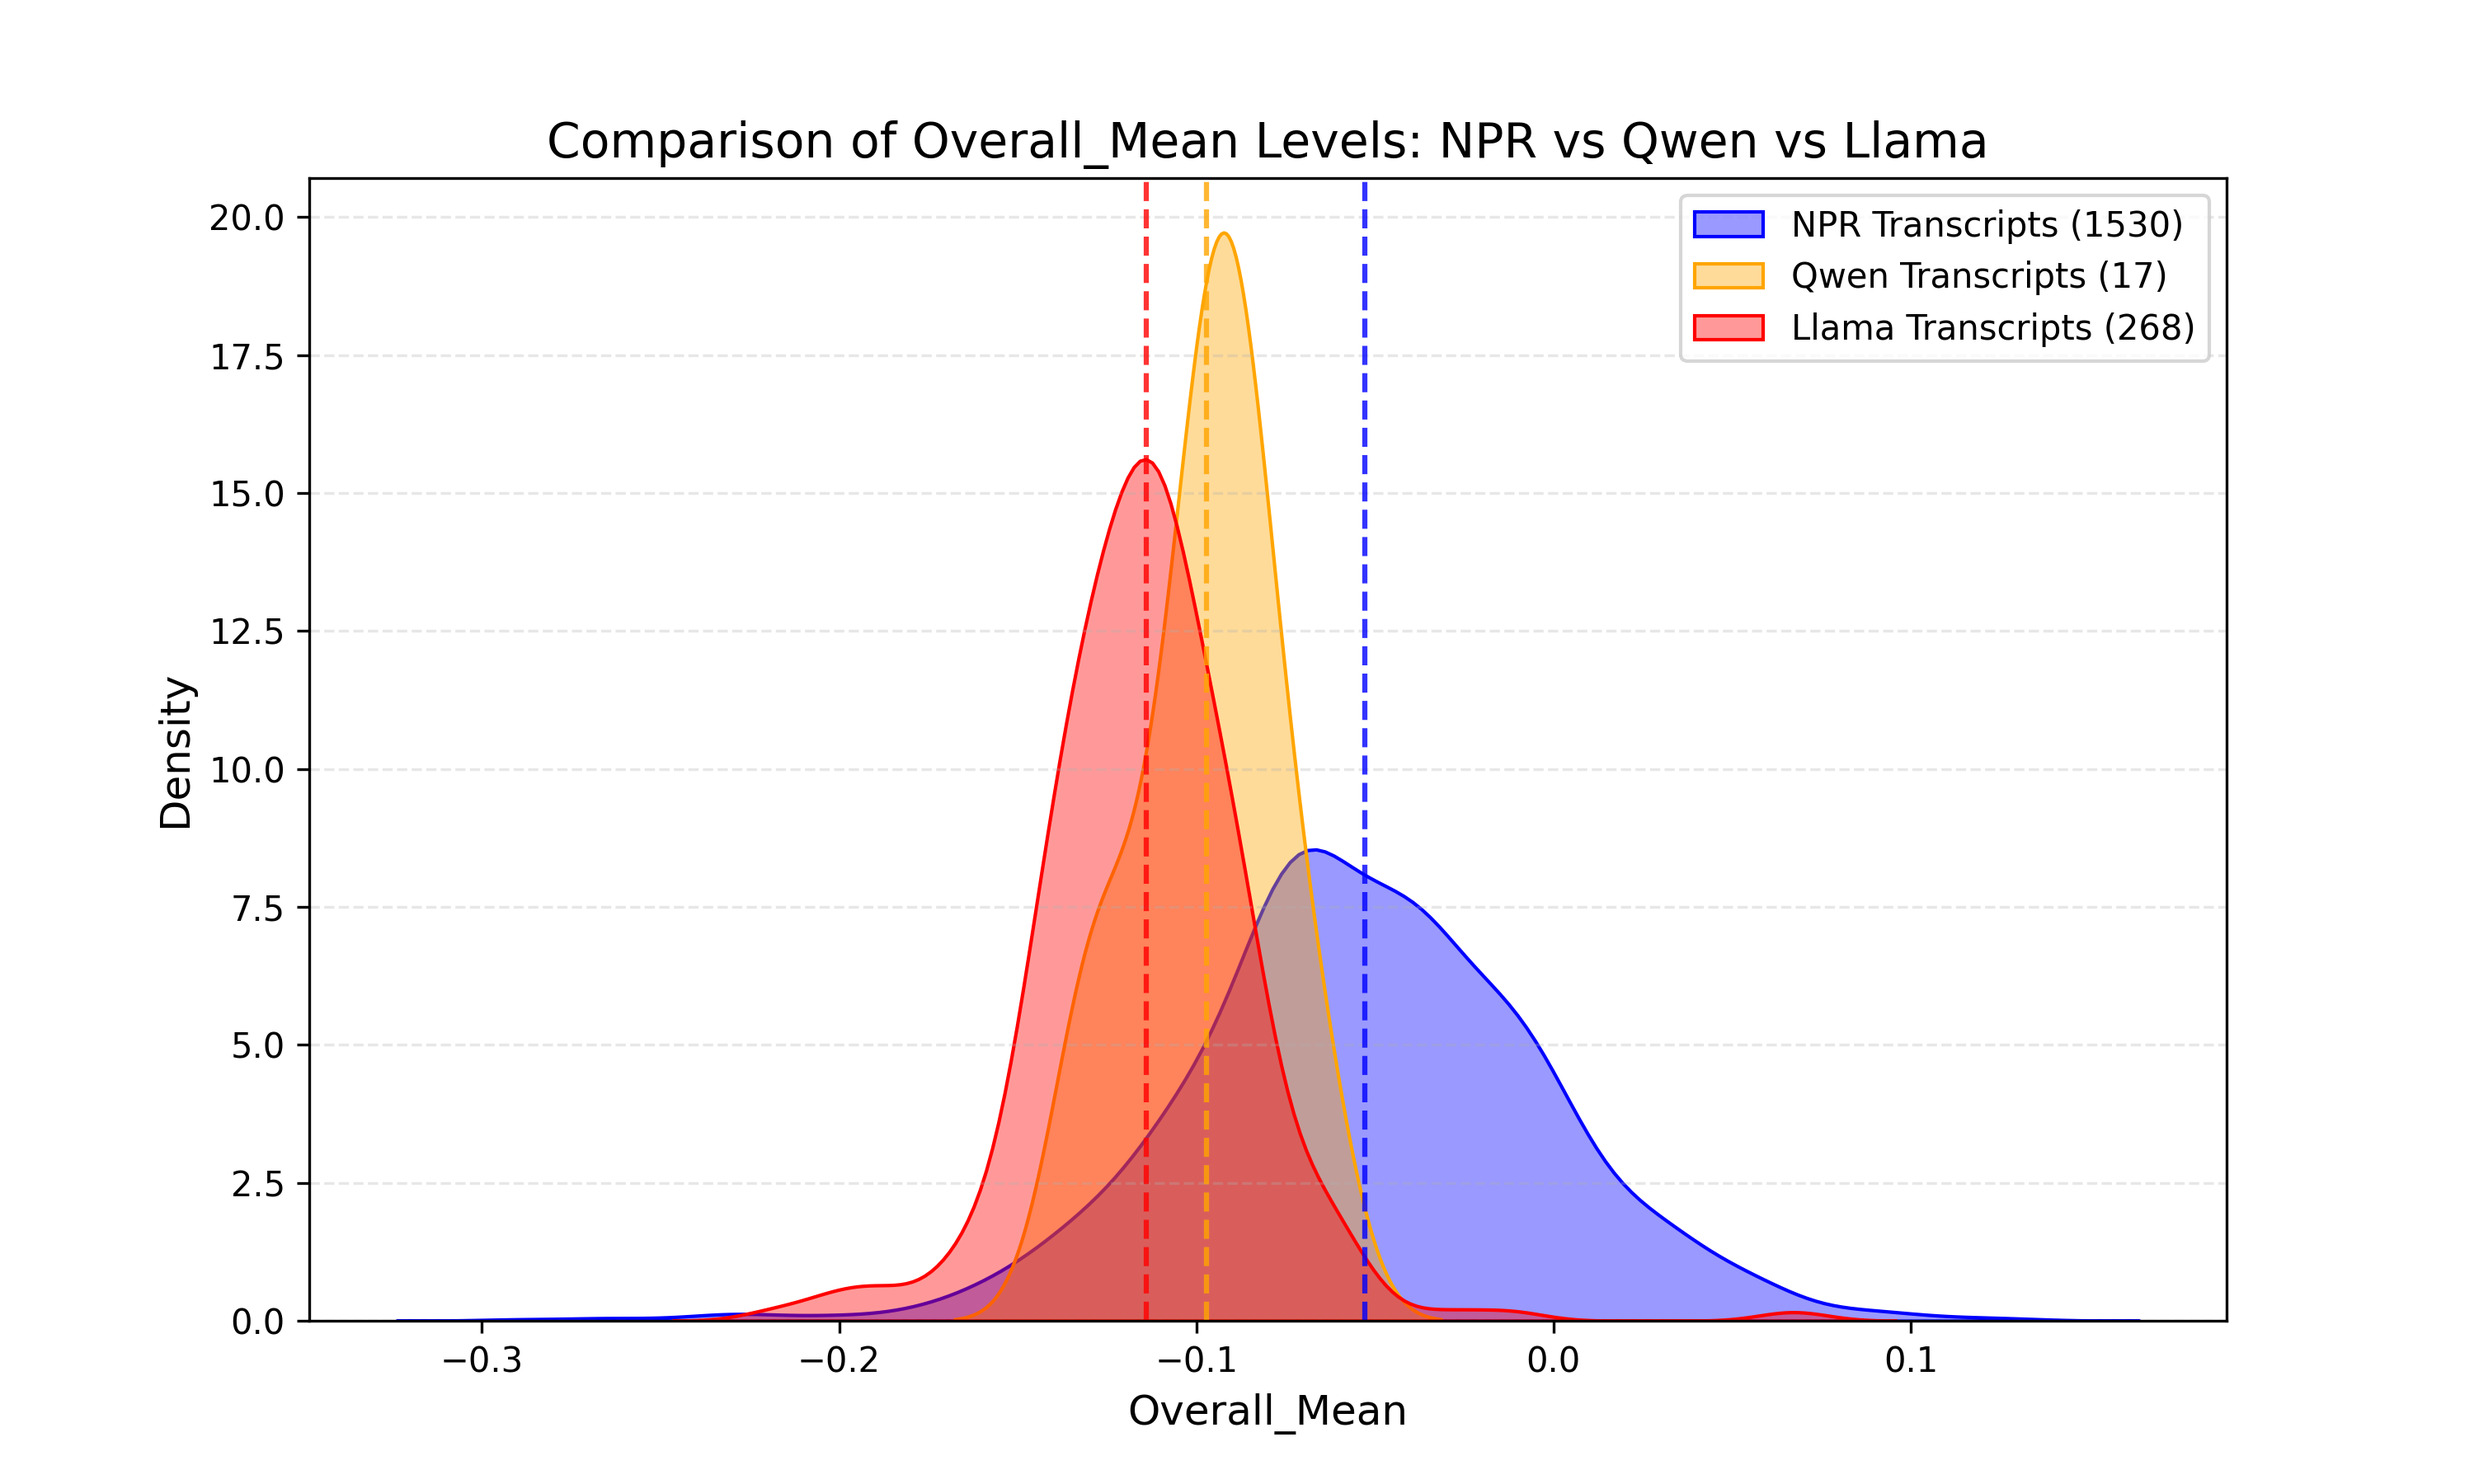
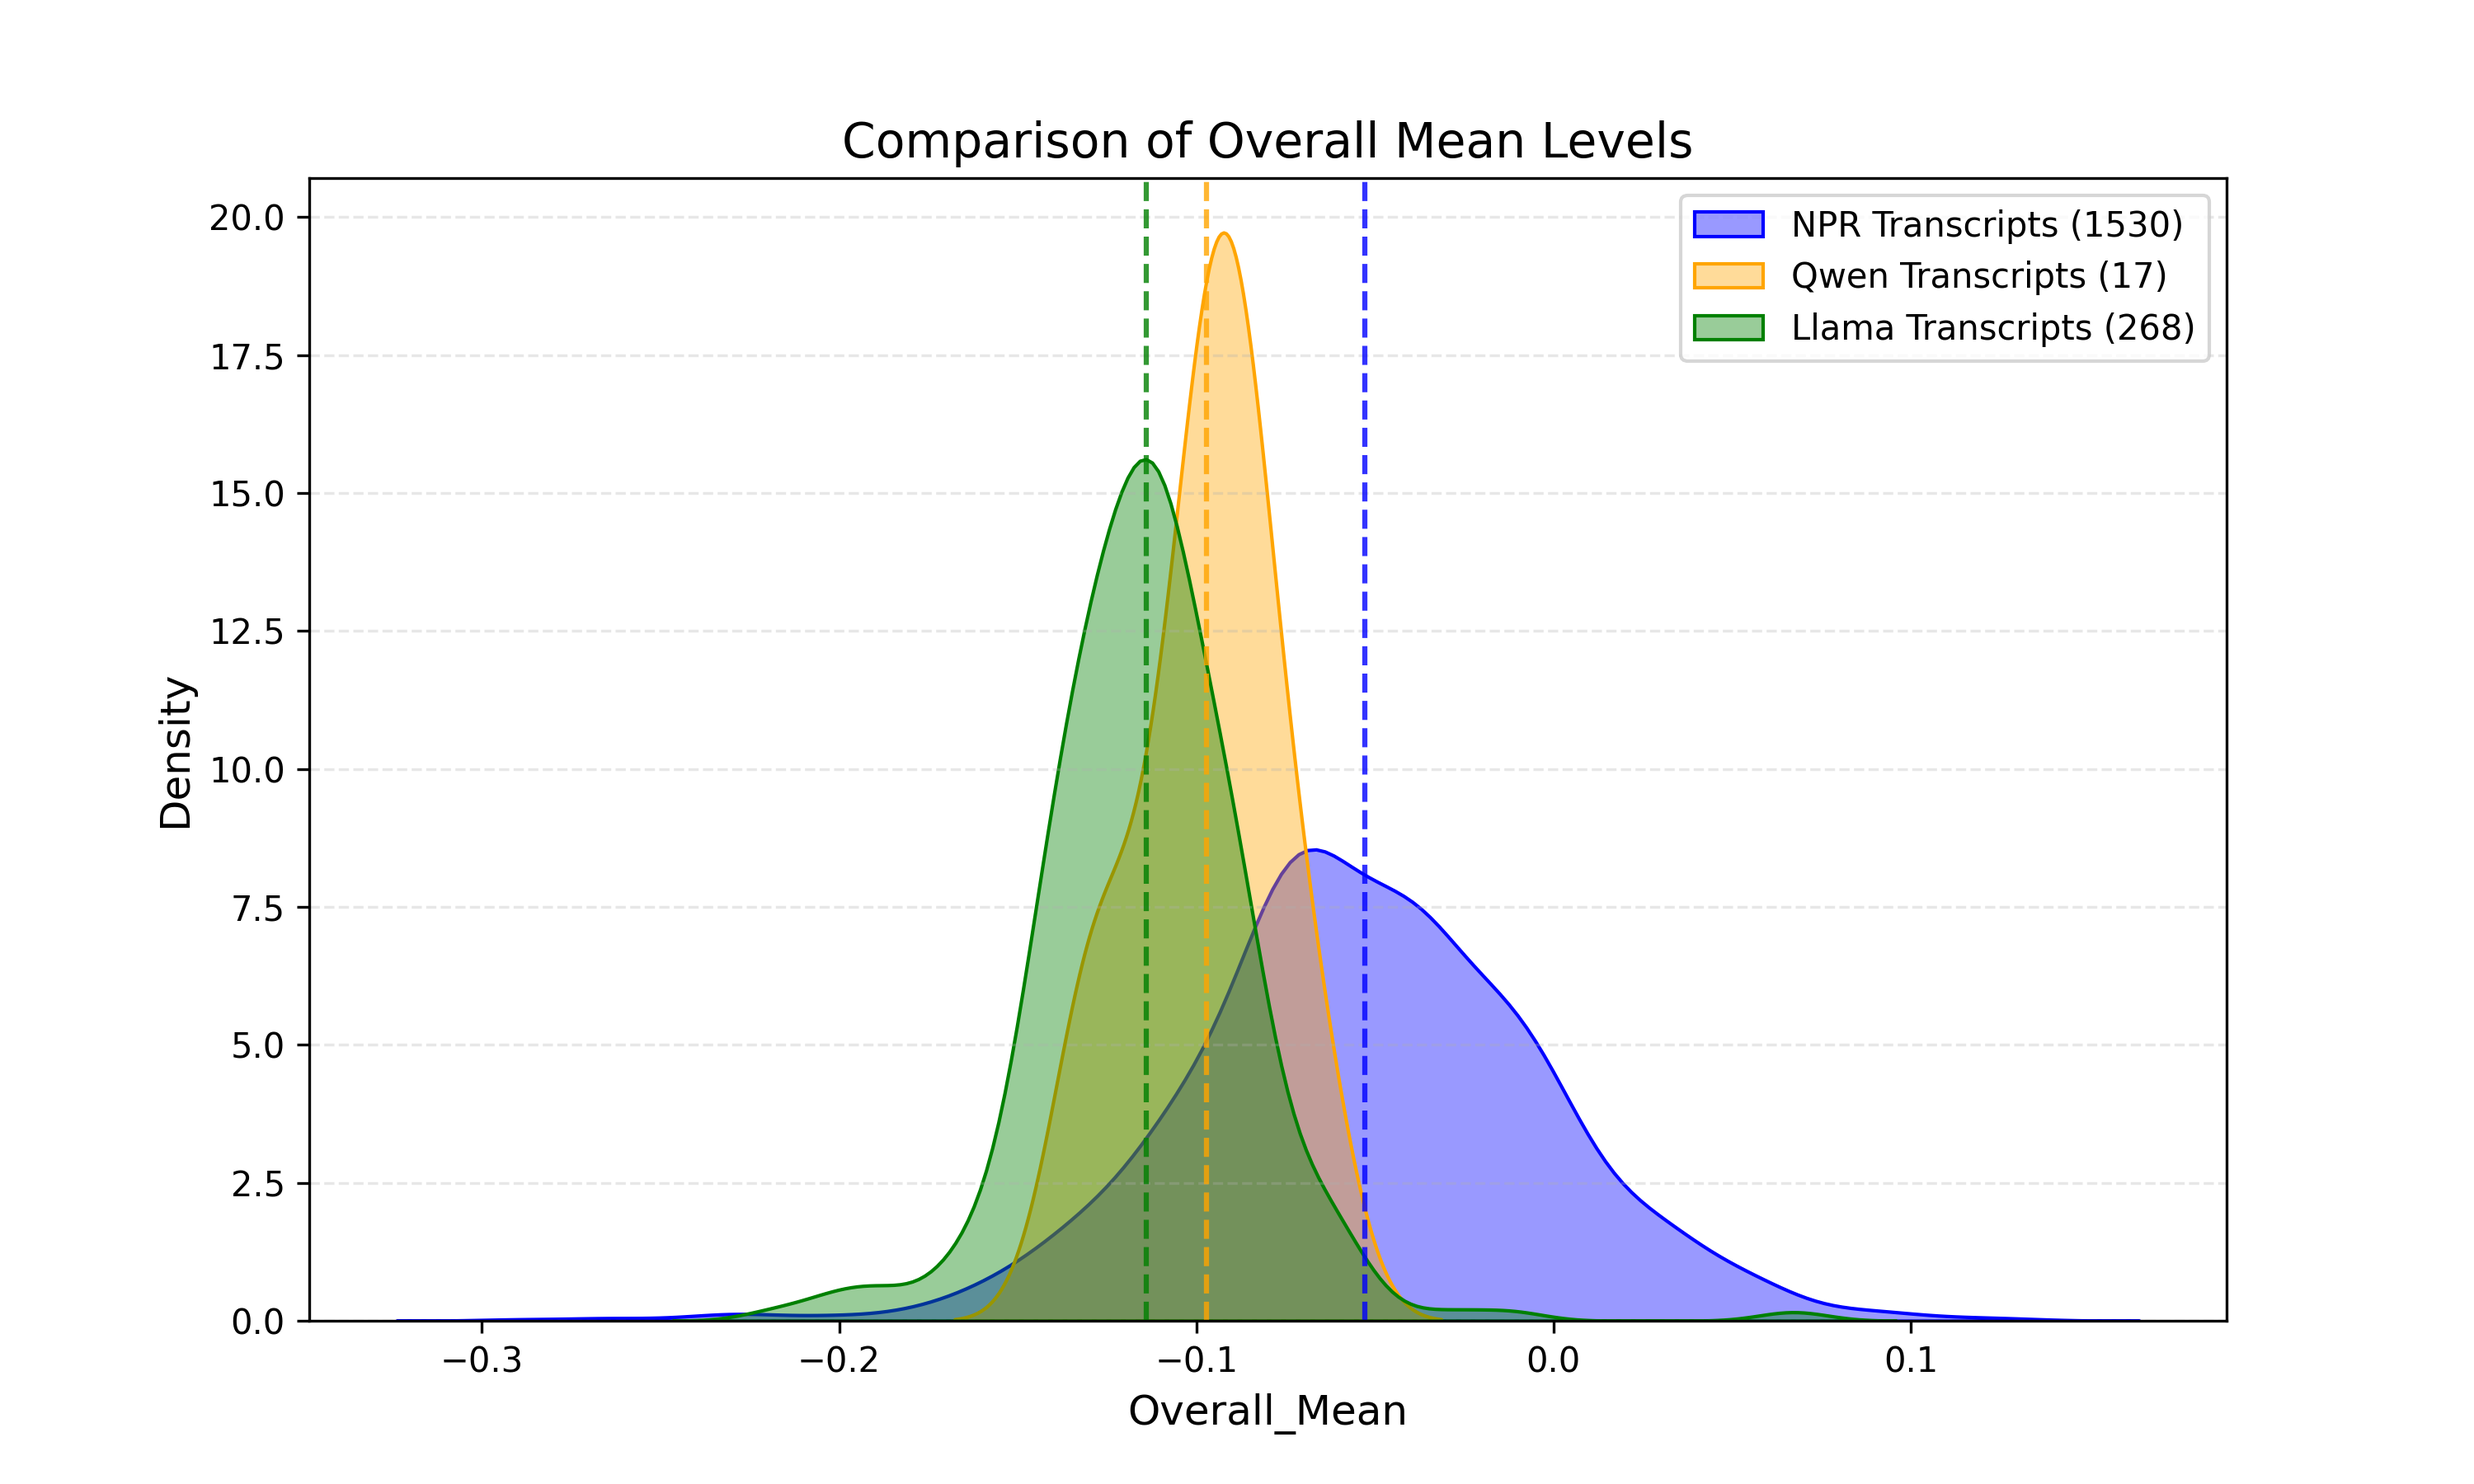
Refactored Compare.py to work with list of CSV's to expand beyond just NPR|Qwen|Llama

diff --git a/Compare.py b/Compare.py
@@ -2,93 +2,161 @@ import seaborn as sns
 import matplotlib.pyplot as plt
 import pandas as pd
 
-def kde_plot(npr_csv, qwen_csv, llama_csv, column, output_file):
-    # 1. Load your summary CSVs
-    npr_df = pd.read_csv(npr_csv)
-    qwen_df = pd.read_csv(qwen_csv)
-    llama_df = pd.read_csv(llama_csv)
+colors = [
+    "blue",
+    "orange",
+    "green",
+    "red",
+    "purple",
+    "brown",
+    "pink",
+    "gray",
+]
 
+labels = ['NPR Transcripts', 'Qwen Transcripts', 'Llama Transcripts']
+
+def kde_plot(csv_paths, labels, colors, column, title, output_file):
+    """
+    csv_paths: list of CSV file paths
+    labels:    list of label strings (same length as csv_paths)
+    colors:    list of colors (same length as csv_paths)
+    column:    column name to plot
+    title:     plot title
+    output_file: filename (inside Plots/)
+    """
     plt.figure(figsize=(10, 6))
 
-    # 2. Plot both distributions
-    sns.kdeplot(data=npr_df[column], fill=True, label='NPR Transcripts (' + str(len(npr_df)) + ')', color='blue', alpha=0.4)
-    sns.kdeplot(data=qwen_df[column], fill=True, label='Qwen Transcripts (' + str(len(qwen_df)) + ')', color='orange', alpha=0.4)
-    sns.kdeplot(data=llama_df[column], fill=True, label='Llama Transcripts (' + str(len(llama_df)) + ')', color='red', alpha=0.4)
+    for path, label, color in zip(csv_paths, labels, colors):
+        df = pd.read_csv(path)
+        sns.kdeplot(
+            data=df[column],
+            fill=True,
+            label=f"{label} ({len(df)})",
+            color=color,
+            alpha=0.4
+        )
+        plt.axvline(
+            df[column].mean(),
+            color=color,
+            linestyle='--',
+            linewidth=1.5,
+            alpha=0.8
+        )
 
-    # 3. Add Vertical Mean Markers
-    plt.axvline(npr_df[column].mean(), color='blue', linestyle='--', linewidth=1.5, alpha=0.8)
-    plt.axvline(qwen_df[column].mean(), color='orange', linestyle='--', linewidth=1.5, alpha=0.8)
-    plt.axvline(llama_df[column].mean(), color='red', linestyle='--', linewidth=1.5, alpha=0.8)
-
-    # 3. Formatting
-    plt.title('Comparison of '+ column +' Levels: NPR vs Qwen vs Llama', fontsize=14)
+    plt.title(title, fontsize=14)
     plt.xlabel(column, fontsize=12)
     plt.ylabel('Density', fontsize=12)
     plt.legend()
     plt.grid(axis='y', linestyle='--', alpha=0.3)
 
-    plt.savefig('Plots/'+ output_file, dpi=300)
+    plt.savefig('Plots/' + output_file, dpi=300)
     plt.close()
     print(f"Comparison plot saved as {output_file}")
 
+csvs_anxiety = [
+    'Data/NPR_anxiety.csv',
+    'Data/qwen_anxiety.csv',
+    'Data/llama_anxiety.csv'
+]
+
+csvs_entropy = [
+    'Data/NPR_entropy.csv',
+    'Data/qwen_entropy.csv',
+    'Data/llama_entropy.csv'
+]
+
+csvs_distinct_n = ['Data/NPR_distinct_n.csv',
+                   'Data/qwen_distinct_n.csv',
+                   'Data/llama_distinct_n.csv',
+]
+
 
 # mean anxiety
-kde_plot('Data/NPR_anxiety.csv',
-         'Data/qwen_anxiety.csv',
-         'Data/llama_anxiety.csv',
-         'Overall_Mean',
-         'Anxiety_mean_kde.png',)
-kde_plot('Data/NPR_anxiety.csv',
-         'Data/qwen_anxiety.csv',
-         'Data/llama_anxiety.csv',
-         'User_Mean',
-         'Anxiety_mean_USER_kde.png',)
-kde_plot('Data/NPR_anxiety.csv',
-         'Data/qwen_anxiety.csv',
-         'Data/llama_anxiety.csv',
-         'Asst_Mean',
-         'Anxiety_mean_ASST_kde.png',)
-
-kde_plot('Data/NPR_anxiety.csv',
-         'Data/qwen_anxiety.csv',
-         'Data/llama_anxiety.csv',
-         'StandardDeviation',
-         'Anxiety_StandardDeviation_kde.png',)
+kde_plot(
+    csv_paths=csvs_anxiety,
+    labels=labels,
+    colors=colors,
+    column='Overall_Mean',
+    title='Comparison of Overall Mean Levels',
+    output_file='Anxiety_mean_kde.png'
+)
+kde_plot(
+    csv_paths=csvs_anxiety,
+    labels=labels,
+    colors=colors,
+    column='User_Mean',
+    title='Comparison of User Mean Levels',
+    output_file='Anxiety_mean_USER_kde.png'
+)
+kde_plot(
+    csv_paths=csvs_anxiety,
+    labels=labels,
+    colors=colors,
+    column='Asst_Mean',
+    title='Comparison of Assistant Mean Levels',
+    output_file='Anxiety_mean_ASST_kde.png'
+)
+kde_plot(
+    csv_paths=csvs_anxiety,
+    labels=labels,
+    colors=colors,
+    column='StandardDeviation',
+    title='Comparison of Standard Deviation Levels',
+    output_file='Anxiety_StandardDeviation_kde.png'
+)
 
 
 # entropy
-kde_plot('Data/NPR_entropy.csv',
-         'Data/qwen_entropy.csv',
-         'Data/llama_entropy.csv',
-         'Entropy',
-         'Entropy_kde.png',)
-kde_plot('Data/NPR_entropy.csv',
-         'Data/qwen_entropy.csv',
-         'Data/llama_entropy.csv',
-         'User_Entropy',
-         'Entropy_User_kde.png',)
-kde_plot('Data/NPR_entropy.csv',
-         'Data/qwen_entropy.csv',
-         'Data/llama_entropy.csv',
-         'Assistant_Entropy',
-         'Entropy_Assistant_kde.png',)
+kde_plot(
+    csv_paths=csvs_entropy,
+    labels=labels,
+    colors=colors,
+    column='Entropy',
+    title='Comparison of Entropy Levels',
+    output_file='Entropy_kde.png'
+)
+kde_plot(
+    csv_paths=csvs_entropy,
+    labels=labels,
+    colors=colors,
+    column='User_Entropy',
+    title='Comparison of User Entropy Levels',
+    output_file='Entropy_User_kde.png'
+)
+kde_plot(
+    csv_paths=csvs_entropy,
+    labels=labels,
+    colors=colors,
+    column='Assistant_Entropy',
+    title='Comparison of Assistant Entropy Levels',
+    output_file='Entropy_Assistant_kde.png'
+)
 
-#distinct_1
-kde_plot('Data/NPR_distinct_n.csv',
-         'Data/qwen_distinct_n.csv',
-         'Data/llama_distinct_n.csv',
-         'Distinct_1',
-         'Distinct_kde.png',)
-kde_plot('Data/NPR_distinct_n.csv',
-         'Data/qwen_distinct_n.csv',
-         'Data/llama_distinct_n.csv',
-         'User_Distinct_1',
-         'Distinct_1User_kde.png',)
-kde_plot('Data/NPR_distinct_n.csv',
-         'Data/qwen_distinct_n.csv',
-         'Data/llama_distinct_n.csv',
-         'Assistant_Distinct_1',
-         'Distinct_1Assistant_kde.png',)
+# distinct_1
+kde_plot(
+    csv_paths=csvs_distinct_n,
+    labels=labels,
+    colors=colors,
+    column='Distinct_1',
+    title='Comparison of Distinct-1 Levels',
+    output_file='Distinct_kde.png'
+)
+kde_plot(
+    csv_paths=csvs_distinct_n,
+    labels=labels,
+    colors=colors,
+    column='User_Distinct_1',
+    title='Comparison of User Distinct-1 Levels',
+    output_file='Distinct_1User_kde.png'
+)
+kde_plot(
+    csv_paths=csvs_distinct_n,
+    labels=labels,
+    colors=colors,
+    column='Assistant_Distinct_1',
+    title='Comparison of Assistant Distinct-1 Levels',
+    output_file='Distinct_1Assistant_kde.png'
+)
 
 
 
